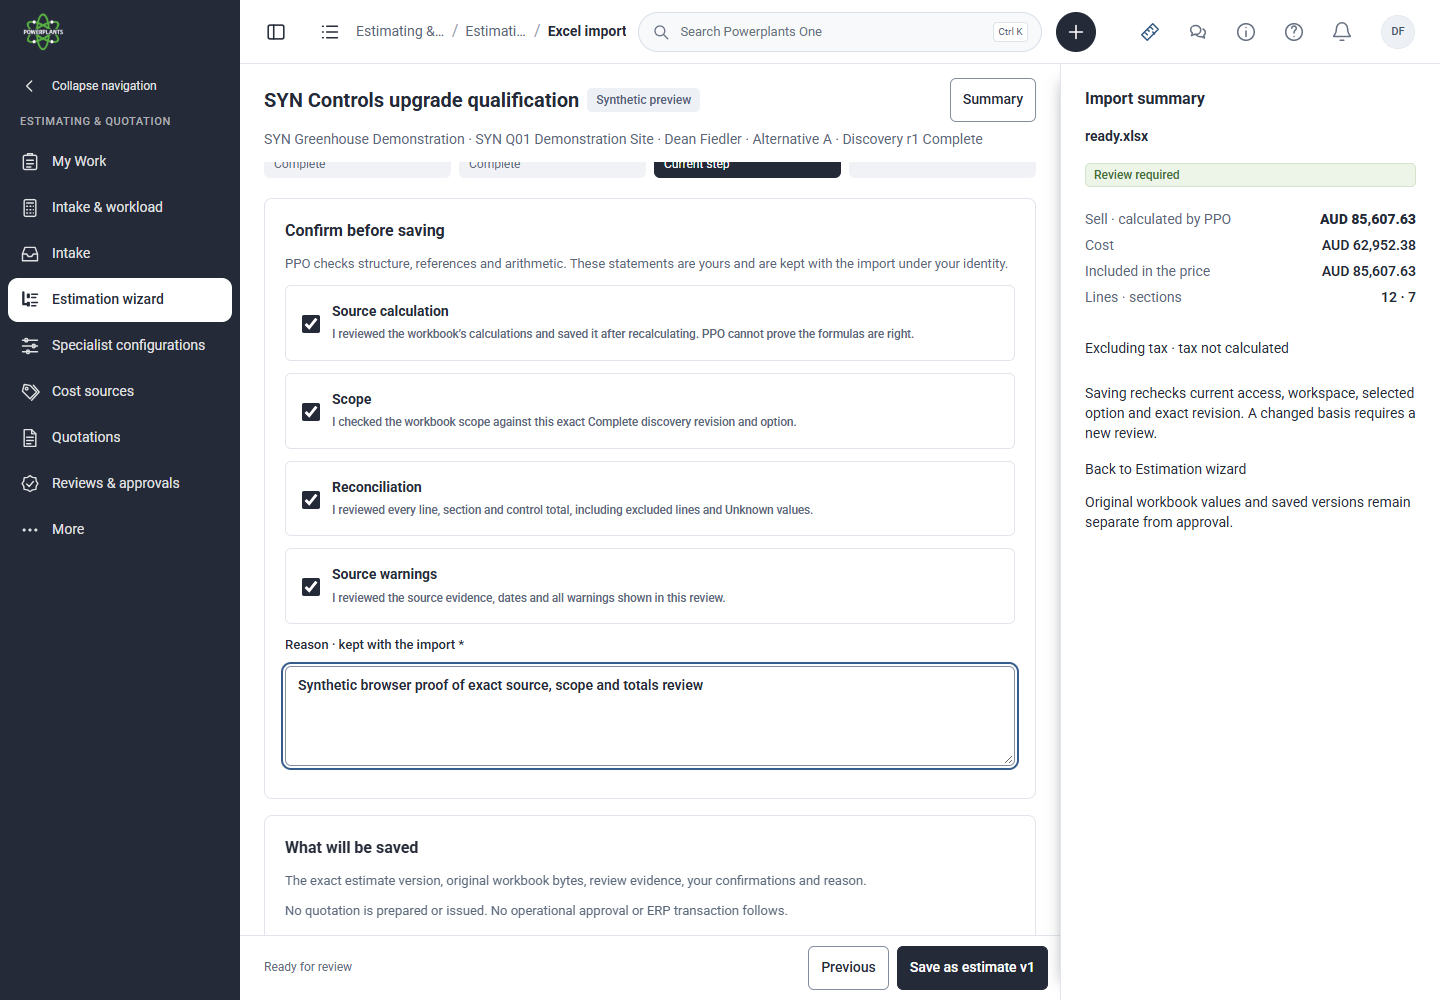
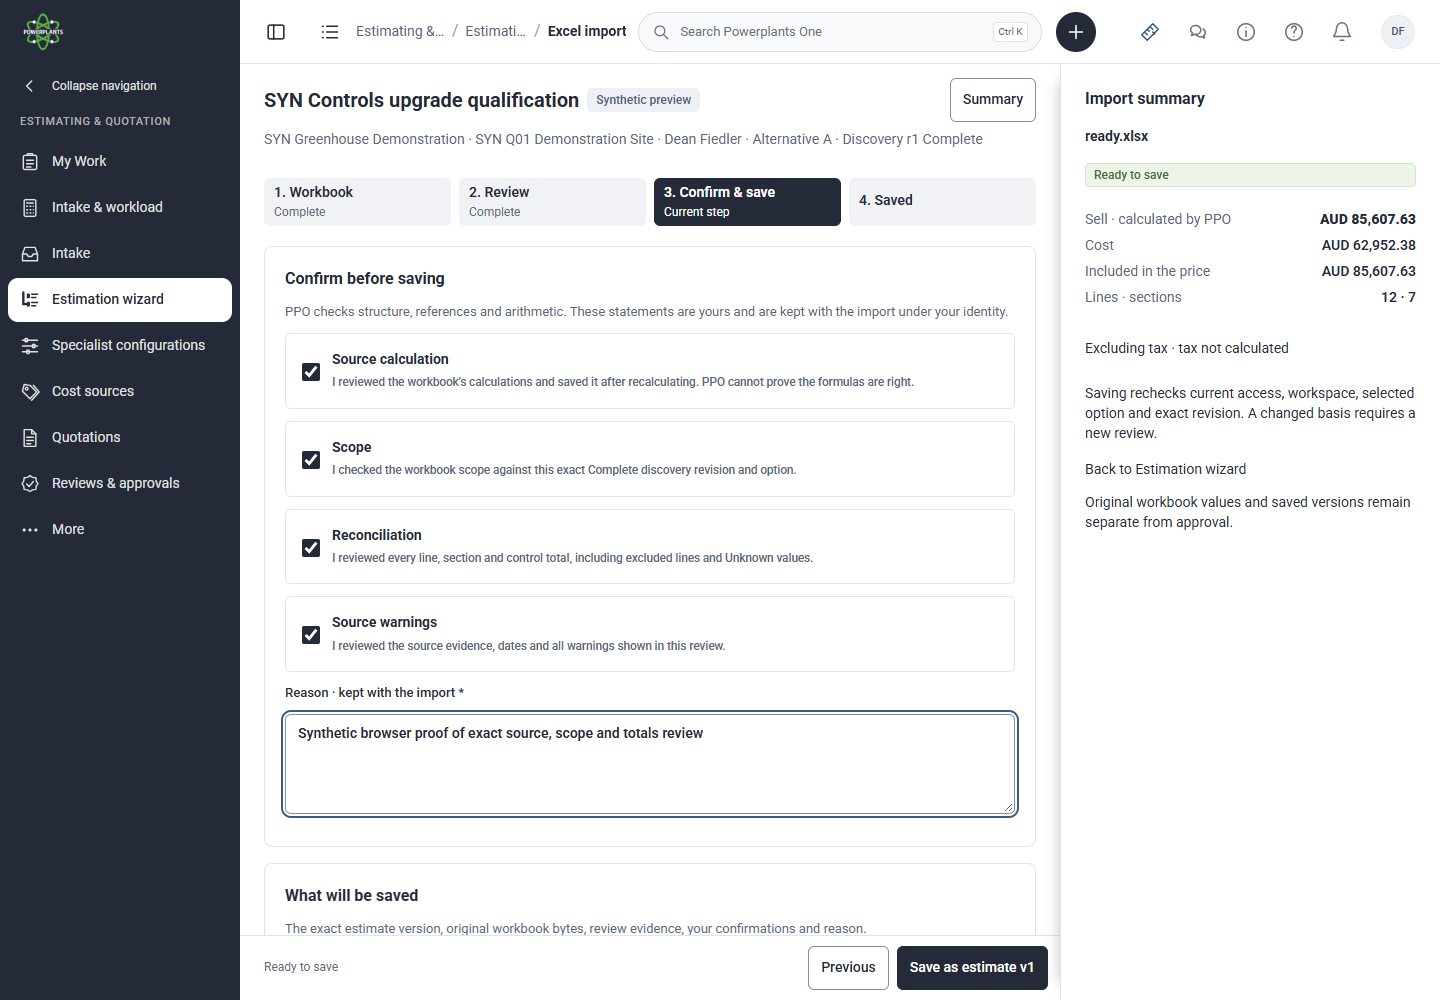
docs(estimating): record final Excel proof limits and captures

diff --git a/docs/testing/evidence/excel-import-ui/README.md b/docs/testing/evidence/excel-import-ui/README.md
@@ -4,7 +4,7 @@ Owner: Dean Fiedler. Builder: Codex. Updated: 1 November 2026. [PR 800](https://
 
 ## Separate delivery statuses
 
-- Functional proof: initial three native/browser tests passed before the final refinements. The 1 November rerun failed (four failures, four not run); it is not a final workflow pass. The current 83 focused tests pass. See the separate failure and baseline record below.
+- Functional proof: initial three native/browser tests passed before the final refinements. The combined 1 November run failed (four failures, four not run); the subsequent Excel-only run failed (two failures, one not run) after proving native save recovery and stale rejection. Neither is a final workflow pass. The current 83 focused tests pass. See the separate failure and baseline record below.
 - Visual review: builder inspected the retained accepted frames and application captures at 1440, 1024, 390 and 320 px. Fresh captures cover choose, blocked, ready and confirm; saved, comparison, pricing and Draft inspection used earlier development captures. Final continuation captures remain outstanding. This is not visual acceptance.
 - Owner acceptance: open, including parent EST-02 to EST-05, EST-07, EST-08, DOC-01 and DOC-02.
 - Deployment: not performed or verified. Independent Claude review and complete CI are separate merge gates.
@@ -48,11 +48,11 @@ The implementation preserves the Wizard shell, selected rail destination, contex
 Dedicated loopback runtime: PPO_PORT 3217; isolated PostgreSQL 16 on 55447; database `ppo_synthetic_test`. No shared or hosted data was used. Real `npm ci` passed with Node 24.22.2/npm 11.19.0, no engine override and no node_modules junction. It reported eleven moderate dependency audit findings; this PR changes no dependency.
 
 - TypeScript with `NODE_OPTIONS=--max-old-space-size=8192 npx tsc --noEmit`: passed after native projection extraction.
-- Focused node suite: 26 passed (Excel comparison, contextual navigation, shell breadcrumbs, module workspaces, department navigation and all four Font Awesome catalogue checks).
+- Focused node suite: 83 passed (Excel comparison, contextual navigation, shell breadcrumbs, module workspaces, department navigation, all four Font Awesome catalogue checks, guide library and guide parity).
 - Targeted database E2 persistence case: one passed, including the Implemented import availability marker and immutable selected scope/operation race proof.
-- Lint, studio, foundation, naming and status checks: final results pending below.
-- New browser suite: initial complete run three passed; final rerun pending.
-- Existing `tests/browser/estimating-wizard.spec.ts`: rerun pending. An earlier beforeAll fixture failed on PostgreSQL's ten-second statement timeout while reading timezone names. The same fixture from unmodified main succeeded against the isolated database, so the failure was not reproduced on main and is not labelled unrelated.
+- Full lint, focused lint after refinements, studio, foundation, naming and status checks: passed. Refined typecheck and documentation-scope check also passed.
+- New browser suite: initial complete run three passed before later refinements; latest Excel-only run two failed and one did not run. Native first commit, lost-response receipt recovery and competing 409 were reached successfully before the saved-evidence read failed.
+- Existing `tests/browser/estimating-wizard.spec.ts`: the combined rerun failed on revision-option availability and the fixture timezone query. The later unmodified-main run reproduced the exact timezone statement timeout; the revision-option wait remains unresolved. The earlier successful main fixture was a different run and does not clear these latest results.
 
 Earlier development runs exposed a missing test Origin header, ambiguous locators, slow cold compilation and full-page continuation navigation. Those were corrected; internal continuations now use Next Link. One rerun command used Playwright's variadic `--project` option incorrectly and discovered no tests; the corrected command is used below. No claim of passing the entire repository database/HTTP/browser suite, full CI, PDF rendering, operational workbook compatibility or restart durability is made.
 
@@ -71,10 +71,18 @@ Completed checks on the integrated implementation before the last eligibility/st
 - Full local Wizard plus Excel browser invocation: **four failed, four not run**. Wizard revision selection waited for an option that did not arrive; a subsequent fixture failed in `ppo.site_timezone()` while querying `pg_timezone_names`. Excel reached blocked/ready review, all four viewport captures, Summary Escape/focus return, full line access and confirmation; repeated workspace-read connection timeouts then unmounted the form before save. The next Excel fixture could not connect. This run proves neither current save nor continuation completion.
 - Unmodified-main comparison: extracted `5c533e93541b297bb347b07ba1db79f85c252089` under ignored task storage and ran the unchanged Wizard suite on port 3218 using the same synthetic PostgreSQL and installed dependency versions. It failed in the same `ppo.site_timezone()`/`pg_timezone_names` fixture statement timeout; four tests did not run. That specific fixture failure is reproduced on main. The revision-option wait and Excel form timeout are not independently cleared by that result.
 
-Refined typecheck and focused lint passed. Foundation, naming and status checks passed; foundation completed before the new capture inventory/status fragment, which the subsequent naming/status checks include. A clean final browser rerun, production build, full repository suites and exact-head CI remain outstanding. The initial targeted E2 database result above is earlier evidence, not a fresh whole-database run.
+Refined typecheck and focused lint passed. Foundation, naming and status checks passed; foundation completed before the new capture inventory/status fragment, which the subsequent naming/status checks include. A clean final browser run, production build, full repository suites and exact-head CI remain outstanding. No production build or broad suite was started while the host was at 100% CPU with about 350 MiB free physical memory; application/test timeouts were not relaxed. The initial targeted E2 database result above is earlier evidence, not a fresh whole-database run.
 
 ### Retained capture inspection
 
 The [capture manifest](captures-2026-11-01/manifest.json) records dimensions and SHA-256 values. These seven synthetic, local-icon captures were inspected against the corresponding retained frames: [choose](captures-2026-11-01/workbook-1440.png), [blocked 320](captures-2026-11-01/blocked-320.png), [review 1440](captures-2026-11-01/review-1440.png), [review 1024](captures-2026-11-01/review-1024.png), [review 390](captures-2026-11-01/review-390.png), [review 320](captures-2026-11-01/review-320.png) and [confirm](captures-2026-11-01/confirm-1440.png).
 
-The phone review retains the reconciliation result and readable totals without page overflow. Findings are taller and precede the detailed line list; at 320 px the primary label wraps. The confirm capture has a partially scrolled stage row after focusing the reason field; the capture helper now resets that local scroll for future comparisons. Its summary still shows the prior review wording; the subsequent status refinement requires a fresh capture. Earlier saved/continuation captures are not retained here as proof of the latest head. Retained-original download is inside Import evidence rather than the drawn saved banner/phone next-action list. Draft inclusion choices use taller per-line cards, so the customer preview appears further down the local scroll than in the drawn compact table. These are additional differences to the ten listed above, not accepted design changes.
+The phone review retains the reconciliation result and readable totals without page overflow. Findings are taller and precede the detailed line list; at 320 px the primary label wraps. The refined confirm capture now has the complete stage row and Ready to save summary/footer, after resetting the local scroll for comparison. Earlier saved/continuation captures are not retained here as proof of the latest head. Retained-original download is inside Import evidence rather than the drawn saved banner/phone next-action list. Draft inclusion choices use taller per-line cards, so the customer preview appears further down the local scroll than in the drawn compact table. These are additional differences to the ten listed above, not accepted design changes.
+
+### Latest Excel-only result and handover
+
+The refined run on implementation `95821a73` ended with **two failures and one not run**. It reached a real first commit (200), deliberately dropped its response, recovered the original operation (200), and rejected the second tab's stale commit (409). It then waited 120 seconds for Import evidence while the page remained on Loading exact context. Server logs show `DatabasePoolWaitTimeout` and `DatabaseConnectTimeout` during saved evidence/context reads. The restarted worker's next fixture hit its 180-second `spawnSync` timeout; the reviewed FX/landed test did not run. This is an unresolved final-runtime proof gap, not a cleared application regression or a claim of passing native continuations.
+
+The fresh seven captures above were re-inspected after that refinement. Saved/revised/pricing/Draft captures on the current implementation remain outstanding; the initial development run is the only complete browser continuation evidence. All XI and parent acceptance stays open. The runtime and baseline servers were stopped after proof. The isolated synthetic database is retained for continuation.
+
+Before publication, current main `26deea85` is integrated. Its Site follow-up changes add an optional `clearUnanswered` argument to `useCrmResource`, defaulting to false, and a separate focus helper. Excel keeps the existing two-argument call and behavior. These are upstream changes, not this PR's implementation. The recorded local runtime/assurance runs precede that final merge; exact-head CI and Claude review remain required.

diff --git a/docs/status/2026-11-01-excel-import-ui.md b/docs/status/2026-11-01-excel-import-ui.md
@@ -7,4 +7,4 @@ date: 2026-11-01
 
 The route contract, scope guide, component consumers and design register remain in the same change. The new route guide follows the Markdown guide contract and remains Draft. Undrawn pricing steps 1–2, full line list and Import evidence follow the recorded Codex recommendation, not owner-accepted composition. No departmental workbook compatibility is claimed.
 
-[Evidence and design differences](../testing/evidence/excel-import-ui/README.md) separate statuses. Functional proof has 83 focused tests plus typecheck, lint and studio passing before the latest small refinements; current browser completion remains open after four failures/four not run. The Wizard fixture's timezone statement timeout also fails on unmodified main; the other timeouts are not labelled unrelated. Refined typecheck/lint and foundation, naming and status checks passed. A separate final Excel browser rerun is in progress. Visual review covers all four widths, with final continuation captures outstanding. Visual acceptance, parent EST-02–EST-05/07/08 and DOC-01/02 acceptance, all XI-01–XI-08 acceptance, exact-head Claude review and deployment remain open.
+[Evidence and design differences](../testing/evidence/excel-import-ui/README.md) separate statuses. Functional proof has 83 focused tests plus typecheck, lint and studio passing before the latest small refinements; current browser completion remains open after four failures/four not run. The Wizard fixture's timezone statement timeout also fails on unmodified main; the other timeouts are not labelled unrelated. Refined typecheck/lint and foundation, naming and status checks passed. The subsequent Excel-only rerun ended with two failures/one not run after native lost-response recovery and stale rejection; saved-result reads and the next fixture timed out. Current continuation proof remains open. Visual review covers all four widths, with final continuation captures outstanding. Visual acceptance, parent EST-02–EST-05/07/08 and DOC-01/02 acceptance, all XI-01–XI-08 acceptance, exact-head Claude review and deployment remain open.

diff --git a/docs/guides/pages/guide.route-estimating-import.md b/docs/guides/pages/guide.route-estimating-import.md
@@ -7,7 +7,7 @@ versioning: git
 owner_role: "Prototype content owner: Dean Fiedler"
 source_commit: 65a05e8e61a124e88e079dcaef73c6352c800871
 workflow_basis: "Native Excel import, reimport, reviewed-source pricing and Draft quotation contracts"
-runtime_evidence: "See docs/testing/evidence/excel-import-ui/README.md; final validation in progress"
+runtime_evidence: "See docs/testing/evidence/excel-import-ui/README.md; bounded validation and outstanding runtime proof recorded"
 ---
 
 ## Purpose and outcome {#purpose}
